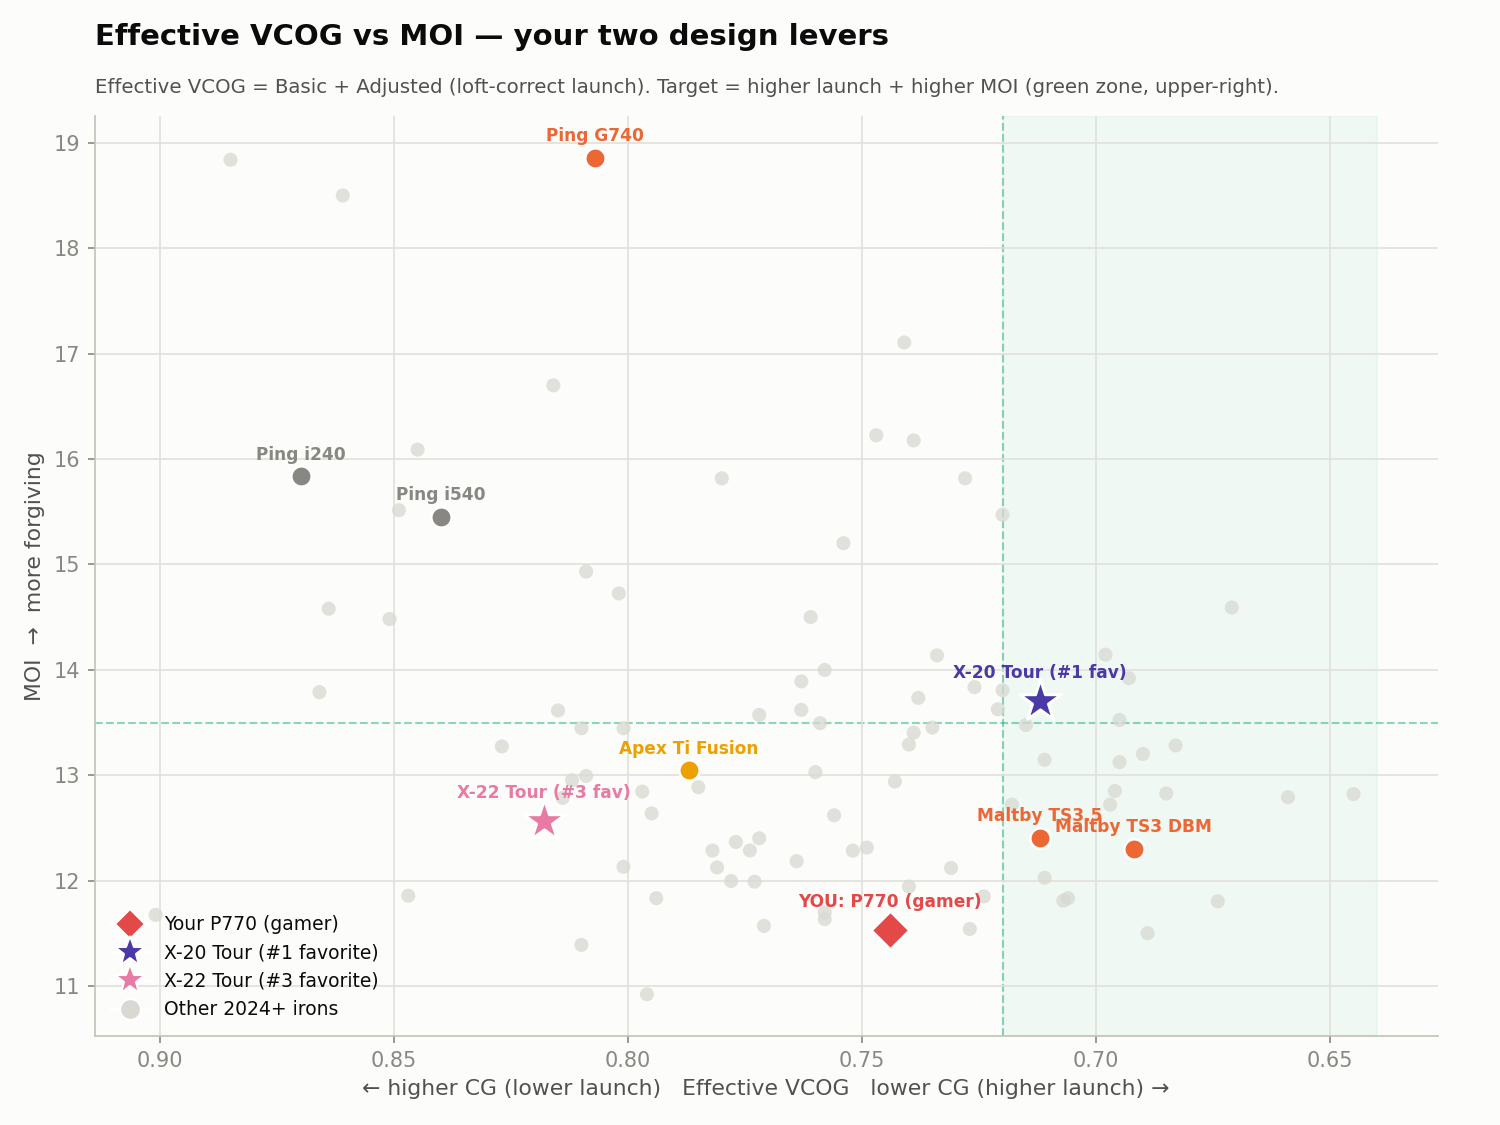
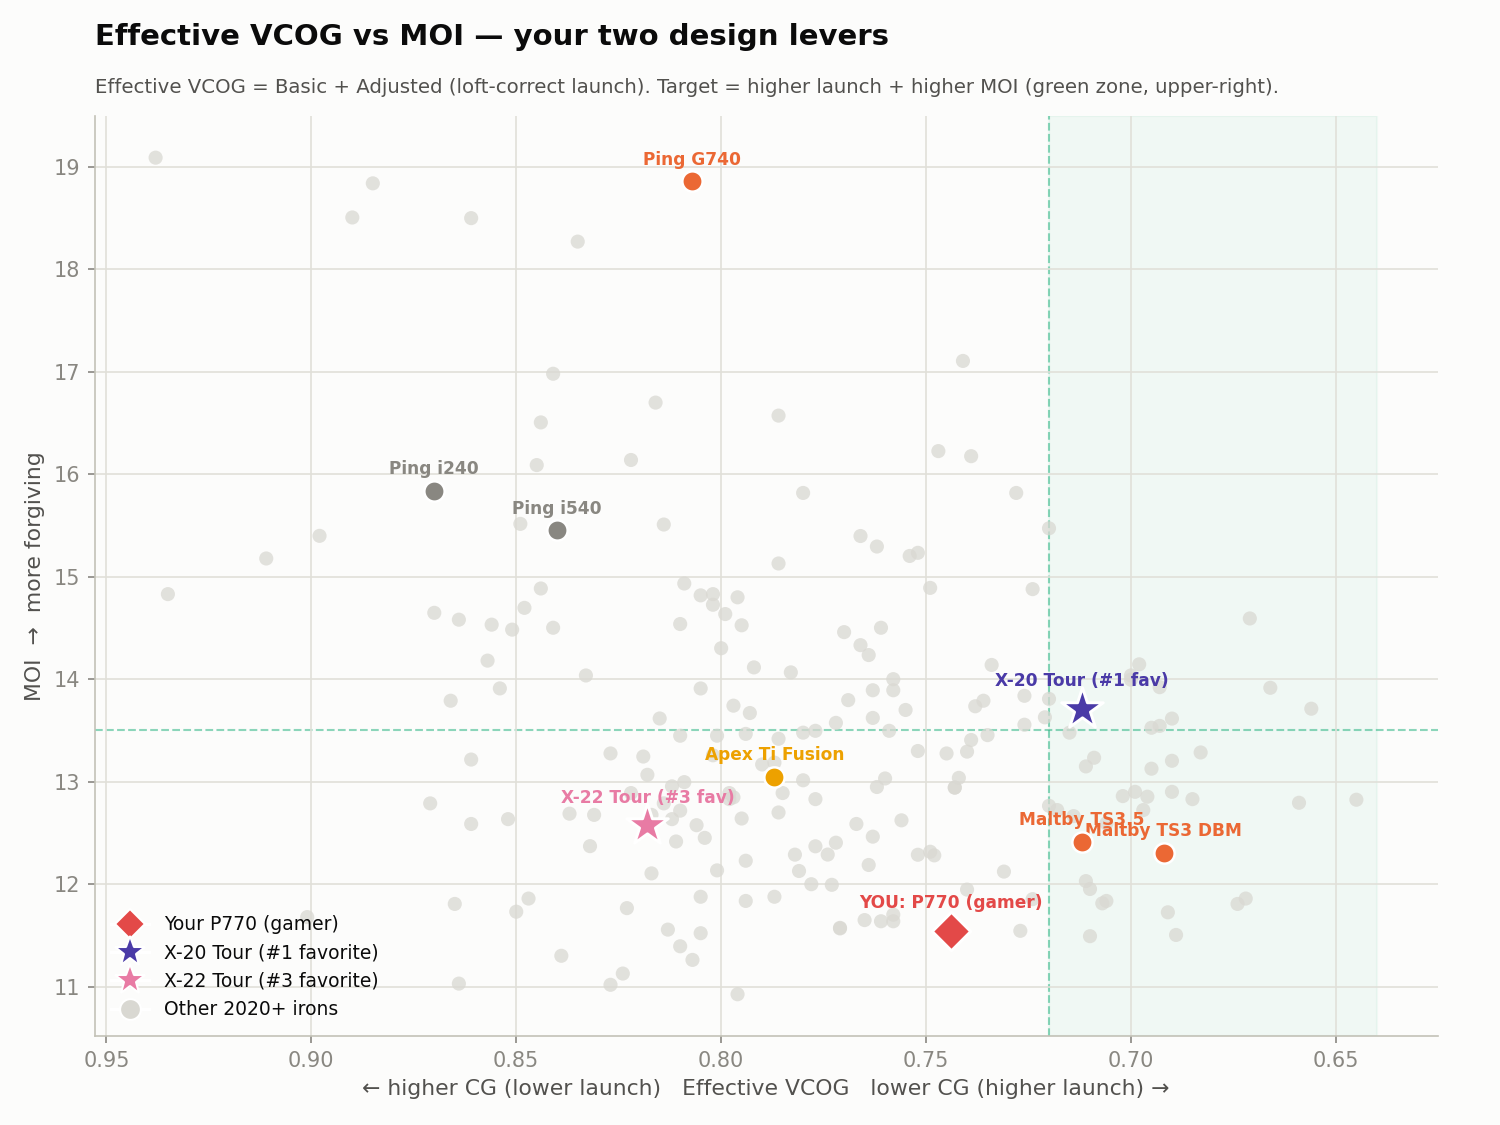
Widen CG-chart year window to 2020+ (configurable via --since)
CG charts (1,4,5) filtered to 2024+ (93 of 1086 irons); widen default to 2020+
(209 irons) and add --since YYYY (0 = all 1928-2026) so more of the field shows.
Robot charts (2,3) inherently cap at the 26 robot-tested irons.

diff --git a/scripts/plot_iron_charts.py b/scripts/plot_iron_charts.py
@@ -10,9 +10,14 @@ Each highlights his gamer (P770) and all-time favorite (X-20 Tour) and shades th
 Outputs: outputs/charts/*.png
 """
 from __future__ import annotations
+import argparse
 import re
 from pathlib import Path
 import pandas as pd
+
+# Year cutoff for the CG charts (1,4,5). The full dataset spans 1928-2026 (1086 irons);
+# default shows the modern field. Override with --since YYYY (or --since 0 for all).
+YEAR_MIN = 2020
 import matplotlib
 matplotlib.use("Agg")
 import matplotlib.pyplot as plt
@@ -54,7 +59,7 @@ def label(ax, x, y, txt, color=INK, dx=0, dy=8):
 def cg_map():
     s = pd.read_csv(D/"maltby_mpf_brand_specs.csv")
     for c in ("vcog_eff","rcog","moi","year"): s[c]=pd.to_numeric(s[c],errors="coerce")
-    cur = s[(s.year>=2024) & s.vcog_eff.notna() & s.rcog.notna() & s.moi.notna()].copy()
+    cur = s[(s.year>=YEAR_MIN) & s.vcog_eff.notna() & s.rcog.notna() & s.moi.notna()].copy()
     favs = s[((s.brand=="CALLAWAY")&s.model.str.contains("X-20 Tour|X-22 Tour",na=False)) |
              ((s.brand=="TAYLORMADE")&s.model.str.contains("P770 Forged",na=False)&(s.year==2023))].copy()
     fig,ax=plt.subplots(figsize=(10,7.5))
@@ -94,7 +99,7 @@ def cg_map():
     leg=[Line2D([0],[0],marker="D",color="w",markerfacecolor=YOU,markersize=10,label="Your P770 (gamer)"),
          Line2D([0],[0],marker="*",color="w",markerfacecolor=FAV,markersize=15,label="X-20 Tour (#1 favorite)"),
          Line2D([0],[0],marker="*",color="w",markerfacecolor="#e87ba4",markersize=15,label="X-22 Tour (#3 favorite)"),
-         Line2D([0],[0],marker="o",color="w",markerfacecolor="#d9d8d2",markersize=10,label="Other 2024+ irons")]
+         Line2D([0],[0],marker="o",color="w",markerfacecolor="#d9d8d2",markersize=10,label=f"Other {YEAR_MIN}+ irons")]
     ax.legend(handles=leg,loc="lower left",frameon=False,fontsize=9)
     fig.tight_layout(); fig.savefig(OUT/"1_cg_map.png",dpi=150); plt.close(fig)
     print("wrote outputs/charts/1_cg_map.png")
@@ -159,7 +164,7 @@ def spin_vs_moi():
 def actual_vcog_vs_moi():
     s = pd.read_csv(D/"maltby_mpf_brand_specs.csv")
     for c in ("vcog","moi","year"): s[c]=pd.to_numeric(s[c],errors="coerce")
-    cur = s[(s.year>=2024) & s.vcog.notna() & s.moi.notna()].copy()
+    cur = s[(s.year>=YEAR_MIN) & s.vcog.notna() & s.moi.notna()].copy()
     favs = s[((s.brand=="CALLAWAY")&s.model.str.contains("X-20 Tour|X-22 Tour",na=False)) |
              ((s.brand=="TAYLORMADE")&s.model.str.contains("P770 Forged",na=False)&(s.year==2023))].copy()
     fig,ax=plt.subplots(figsize=(10,7.5))
@@ -193,7 +198,7 @@ def actual_vcog_vs_moi():
     leg=[Line2D([0],[0],marker="D",color="w",markerfacecolor=YOU,markersize=10,label="Your P770 (gamer)"),
          Line2D([0],[0],marker="*",color="w",markerfacecolor=FAV,markersize=15,label="X-20 Tour (#1 favorite)"),
          Line2D([0],[0],marker="*",color="w",markerfacecolor="#e87ba4",markersize=15,label="X-22 Tour (#3 favorite)"),
-         Line2D([0],[0],marker="o",color="w",markerfacecolor="#d9d8d2",markersize=10,label="Other 2024+ irons")]
+         Line2D([0],[0],marker="o",color="w",markerfacecolor="#d9d8d2",markersize=10,label=f"Other {YEAR_MIN}+ irons")]
     ax.legend(handles=leg,loc="lower left",frameon=False,fontsize=9)
     fig.tight_layout(); fig.savefig(OUT/"4_actual_vcog_vs_moi.png",dpi=150); plt.close(fig)
     print("wrote outputs/charts/4_actual_vcog_vs_moi.png")
@@ -203,7 +208,7 @@ def actual_vcog_vs_moi():
 def eff_vcog_vs_moi():
     s = pd.read_csv(D/"maltby_mpf_brand_specs.csv")
     for c in ("vcog_eff","moi","year"): s[c]=pd.to_numeric(s[c],errors="coerce")
-    cur = s[(s.year>=2024) & s.vcog_eff.notna() & s.moi.notna()].copy()
+    cur = s[(s.year>=YEAR_MIN) & s.vcog_eff.notna() & s.moi.notna()].copy()
     favs = s[((s.brand=="CALLAWAY")&s.model.str.contains("X-20 Tour|X-22 Tour",na=False)) |
              ((s.brand=="TAYLORMADE")&s.model.str.contains("P770 Forged",na=False)&(s.year==2023))].copy()
     fig,ax=plt.subplots(figsize=(10,7.5))
@@ -237,11 +242,17 @@ def eff_vcog_vs_moi():
     leg=[Line2D([0],[0],marker="D",color="w",markerfacecolor=YOU,markersize=10,label="Your P770 (gamer)"),
          Line2D([0],[0],marker="*",color="w",markerfacecolor=FAV,markersize=15,label="X-20 Tour (#1 favorite)"),
          Line2D([0],[0],marker="*",color="w",markerfacecolor="#e87ba4",markersize=15,label="X-22 Tour (#3 favorite)"),
-         Line2D([0],[0],marker="o",color="w",markerfacecolor="#d9d8d2",markersize=10,label="Other 2024+ irons")]
+         Line2D([0],[0],marker="o",color="w",markerfacecolor="#d9d8d2",markersize=10,label=f"Other {YEAR_MIN}+ irons")]
     ax.legend(handles=leg,loc="lower left",frameon=False,fontsize=9)
     fig.tight_layout(); fig.savefig(OUT/"5_eff_vcog_vs_moi.png",dpi=150); plt.close(fig)
     print("wrote outputs/charts/5_eff_vcog_vs_moi.png")
 
 
 if __name__ == "__main__":
+    ap = argparse.ArgumentParser()
+    ap.add_argument("--since", type=int, default=YEAR_MIN,
+                    help="min model year for CG charts (0 = all 1928-2026)")
+    args = ap.parse_args()
+    YEAR_MIN = args.since
+    print(f"CG charts show irons with year >= {YEAR_MIN}")
     cg_map(); green_holding(); spin_vs_moi(); actual_vcog_vs_moi(); eff_vcog_vs_moi()